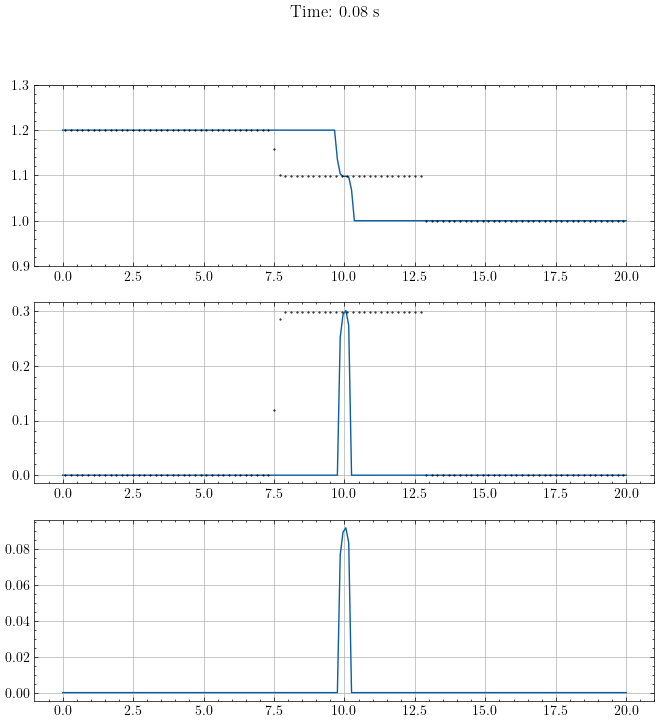
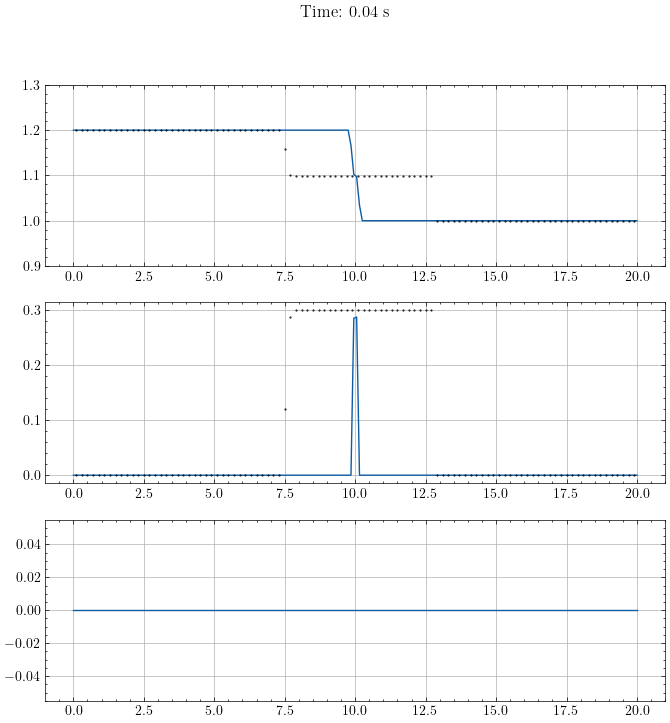
Fluxes formulation added
Flux scheme using up & down vectors: still not working (not stable). TODO: fix fluxes, fix entropy

diff --git a/lib/canal.py b/lib/canal.py
@@ -123,6 +123,7 @@ class Canal:
                 self.w[:int(position/self.dx)] = left_w
                 self.w[int(position/self.dx):] = right_w
                 self.hu = self.h*self.u
+                self.hw = self.h*self.w
                 
                 if exact:
                     with open('config/exact_dmb.txt','r') as f:
@@ -182,12 +183,6 @@ class Canal:
             self.l1[i] = self.u[i] - np.sqrt(self.gravity*self.h[i])
             self.l2[i] = self.u[i] + np.sqrt(self.gravity*self.h[i])
             
-    def calc_eigenvectors(self):
-        self.eig_vec1 = np.zeros((self.n,2))
-        self.eig_vec2 = np.zeros((self.n,2))
-        for i in range(self.n):
-            self.eig_vec1[i] = [1,self.lambda1[i]]
-            self.eig_vec2[i] = [1,self.lambda2[i]]
             
     def clac_alphas(self):
         self.alpha1 = np.zeros(self.n)
@@ -261,7 +256,7 @@ class Canal:
     
     # Friction fix
     def friction_fix(self):
-        beta_z = -0.5*self.gravity*self.h_wall*(np.roll(self.z,1)-self.z)
+        beta_z = -0.5*self.gravity*self.h_wall*(np.roll(self.z,-1)-self.z)
  
     def calc_dt(self):
         aux = np.concatenate((self.lambda1,self.lambda2))
@@ -278,9 +273,14 @@ class Canal:
     # update the hydrodynamic variables for the hydrostatic part    
     def update_hydro_contrib(self):
         
+        hu_flux = self.hu + self.lambda1_minus*self.gamma1*self.lambda1 + self.lambda2_minus*self.gamma2*self.lambda2
+        huw_flux = np.where(hu_flux>0, hu_flux*self.w, hu_flux*np.roll(self.w,-1))
+        
+        
         for i in range(1,self.n):
             h_contrib = 0
             hu_contrib = 0
+            hw_contrib = 0
             if self.check_fix: # we use all the variables calculated in the entropy fix
                 if self.lambda1_bar[i] > 0:
                     h_contrib += self.lambda1_bar[i-1]*self.gamma1[i-1]
@@ -294,18 +294,18 @@ class Canal:
                 if self.lambda2_bar[i] < 0:
                     h_contrib += self.lambda2_bar[i]*self.gamma2[i]
                     hu_contrib += self.lambda2_bar[i]**2*self.gamma2[i]
-                if self.lambda1_hat[i] > 0:
-                    h_contrib += self.lambda1_hat[i-1]*self.alpha1[i-1] # betta hat are set to zero
-                    hu_contrib += self.lambda1_hat[i-1]**2*self.alpha1[i-1]
-                if self.lambda1_hat[i] < 0:
-                    h_contrib += self.lambda1_hat[i]*self.alpha1[i]
-                    hu_contrib += self.lambda1_hat[i]**2*self.alpha1[i]
-                if self.lambda2_hat[i] > 0:
-                    h_contrib += self.lambda2_hat[i-1]*self.alpha2[i-1]
-                    hu_contrib += self.lambda2_hat[i-1]**2*self.alpha2[i-1]
-                if self.lambda2_hat[i] < 0:
-                    h_contrib += self.lambda2_hat[i]*self.alpha2[i]
-                    hu_contrib += self.lambda2_hat[i]**2*self.alpha2[i]                    
+                # if self.lambda1_hat[i] > 0:
+                #     h_contrib += self.lambda1_hat[i-1]*self.alpha1[i-1] # betta hat are set to zero
+                #     hu_contrib += self.lambda1_hat[i-1]**2*self.alpha1[i-1]
+                # if self.lambda1_hat[i] < 0:
+                #     h_contrib += self.lambda1_hat[i]*self.alpha1[i]
+                #     hu_contrib += self.lambda1_hat[i]**2*self.alpha1[i]
+                # if self.lambda2_hat[i] > 0:
+                #     h_contrib += self.lambda2_hat[i-1]*self.alpha2[i-1]
+                #     hu_contrib += self.lambda2_hat[i-1]**2*self.alpha2[i-1]
+                # if self.lambda2_hat[i] < 0:
+                #     h_contrib += self.lambda2_hat[i]*self.alpha2[i]
+                #     hu_contrib += self.lambda2_hat[i]**2*self.alpha2[i]                    
             else:
                 if self.lambda1[i-1] > 0:
                     h_contrib += self.lambda1[i-1]*self.gamma1[i-1] #update first component of the conservative vector
@@ -322,6 +322,10 @@ class Canal:
                            
             self.h[i] = self.h[i] - self.dt/self.dx*(h_contrib)
             self.hu[i] = self.hu[i] - self.dt/self.dx*(hu_contrib)
+        
+        # update hw
+        self.hw -= self.dt/self.dx*(np.roll(huw_flux,1) - huw_flux)
+        
         # contorn conditions
         self.h[0] = self.left_height
         self.h[-1] = self.right_height
@@ -330,63 +334,48 @@ class Canal:
                
     def update_hydro_flux(self):
         
-        # vector to store the fluxes
-        h_flux = np.zeros(self.n)
-        u_flux = np.zeros(self.n)
+        # # vector to store the fluxes
+        # h_flux = self.h.copy()
+        # hu_flux = self.hu.copy()
+        
+        # h_flux += self.lambda1_minus*self.gamma1*self.lambda1
+        # h_flux += self.lambda2_minus*self.gamma2*self.lambda2
+        
+        # hu_flux += self.lambda1_minus*self.gamma1*self.lambda1**2
+        # hu_flux += self.lambda2_minus*self.gamma2*self.lambda2**2
+        
+        h_flux_up = np.roll(self.hu,-1)
+        h_flux_dw = self.hu
+        hu_flux_up = np.roll(self.hu**2/self.h+0.5*self.gravity*self.h**2,-1)
+        hu_flux_dw = self.hu**2/self.h+0.5*self.gravity*self.h**2
         
         for i in range(1,self.n):
-            h_flux = 0
-            u_flux = 0
-            if self.check_fix: # we use all the variables calculated in the entropy fix
-                if self.lambda1_bar[i] > 0:
-                    h_flux += self.lambda1_bar[i-1]*self.gamma1[i-1]
-                    u_flux += self.lambda1_bar[i-1]**2*self.gamma1[i-1]
-                if self.lambda1_bar[i] < 0:
-                    h_flux += self.lambda1_bar[i]*self.gamma1[i]
-                    u_flux += self.lambda1_bar[i]**2*self.gamma1[i]
-                if self.lambda2_bar[i] > 0:
-                    h_flux += self.lambda2_bar[i-1]*self.gamma2[i-1]
-                    u_flux += self.lambda2_bar[i-1]**2*self.gamma2[i-1]
-                if self.lambda2_bar[i] < 0:
-                    h_flux += self.lambda2_bar[i]*self.gamma2[i]
-                    u_flux += self.lambda2_bar[i]**2*self.gamma2[i]
-                if self.lambda1_hat[i] > 0:
-                    h_flux += self.lambda1_hat[i-1]*self.alpha1[i-1] # betta hat are set to zero
-                    u_flux += self.lambda1_hat[i-1]**2*self.alpha1[i-1]
-                if self.lambda1_hat[i] < 0:
-                    h_flux += self.lambda1_hat[i]*self.alpha1[i]
-                    u_flux += self.lambda1_hat[i]**2*self.alpha1[i]
-                if self.lambda2_hat[i] > 0:
-                    h_flux += self.lambda2_hat[i-1]*self.alpha2[i-1]
-                    u_flux += self.lambda2_hat[i-1]**2*self.alpha2[i-1]
-                if self.lambda2_hat[i] < 0:
-                    h_flux += self.lambda2_hat[i]*self.alpha2[i]
-                    u_flux += self.lambda2_hat[i]**2*self.alpha2[i]                    
+            if self.lambda1[i] < 0:
+                h_flux_dw[i] += self.lambda1[i]*self.gamma1[i]
+                hu_flux_dw[i] += self.lambda1[i]**2*self.gamma1[i]
             else:
-                if self.lambda1[i-1] > 0:
-                    h_flux += self.lambda1[i-1]*self.gamma1[i-1] #update first component of the conservative vector
-                    u_flux += self.lambda1[i-1]**2*self.gamma1[i-1] #update second component of the conservative vector
-                if self.lambda1[i] < 0:
-                    h_flux += self.lambda1[i]*self.gamma1[i]
-                    u_flux += self.lambda1[i]**2*self.gamma1[i]
-                if self.lambda2[i-1] > 0:
-                    h_flux += self.lambda2[i-1]*self.gamma2[i-1]
-                    u_flux += self.lambda2[i-1]**2*self.gamma2[i-1]
-                if self.lambda2[i] < 0:
-                    h_flux += self.lambda2[i]*self.gamma2[i]
-                    u_flux += self.lambda2[i]**2*self.gamma2[i]
-                           
-            self.h[i] = self.h[i] - self.dt/self.dx*(h_flux)
-            self.u[i] = self.u[i] - self.dt/self.dx*(u_flux)
+                h_flux_up[i] -= self.lambda1[i]*self.gamma1[i]
+                hu_flux_up[i] -= self.lambda1[i]**2*self.gamma1[i]
+            if self.lambda2[i] < 0:
+                h_flux_dw[i] += self.lambda2[i]*self.gamma2[i]
+                hu_flux_dw[i] += self.lambda2[i]**2*self.gamma2[i]
+            else:
+                h_flux_up[i] -= self.lambda2[i]*self.gamma2[i]
+                hu_flux_up[i] -= self.lambda2[i]**2*self.gamma2[i]
+
+        self.h -= self.dt/self.dx*(h_flux_dw-np.roll(h_flux_up,1))
+        self.hu -= self.dt/self.dx*(hu_flux_dw-np.roll(hu_flux_up,1))                
+        # self.h -= self.dt/self.dx*(np.roll(h_flux,1)-h_flux)
+        # self.hu -= self.dt/self.dx*(np.roll(hu_flux,1)-hu_flux)
         # contorn conditions
         self.h[0] = self.left_height
         self.h[-1] = self.right_height
-        self.u[0] = self.left_u
-        self.u[-1] = self.right_u
+        self.hu[0] = self.left_u
+        self.hu[-1] = self.right_u
                
-    
     # Calculate variable vectors
     def debug_calc_vectors(self):
+        self.u = self.hu/self.h
         t0 = time.time()
         self.calc_hidraulic_radius()
         t1 = time.time()
@@ -411,14 +400,25 @@ class Canal:
         
         if self.activate_entropy_fix:
             a = self.check_entropy()
-            # if a: logger.info(f"Entropy fix activated")
-            self.entropy_fix()
-            t7 = time.time()
+            if a: 
+                logger.info(f"Entropy fix activated")
+                self.entropy_fix()
+        t7 = time.time()
+                # add time usage in % of total time
+        total_time = t7-t0
+        if self.check_fix: logger.debug(f"Total time: {total_time:.2f}\n\
+            R:{(t1-t0)/total_time:.2f}; ({t1-t0})\n\
+            S:{(t2-t1)/total_time:.2f}; ({t2-t1})\n\
+            walls:{(t4-t2)/total_time:.2f}; ({t4-t2})\n\
+            lambda:{(t5-t4)/total_time:.2f}; ({t5-t4})\n\
+            eigenvectors:{(t6-t5)/total_time:.2f}; ({t6-t5})\n\
+            entropy fix:{(t7-t6)/total_time:.2f}; ({t7-t6})\n") 
 
   # Calculate variable vectors
     def calc_vectors(self):
         
         self.u = self.hu/self.h
+        self.w = self.hw/self.h
         self.calc_hidraulic_radius()
       
         self.calc_S_manning()
@@ -433,7 +433,9 @@ class Canal:
         self.calc_betas()
         self.calc_gammas()
         
-        self.calc_eigenvectors()
+        
+        self.lambda1_minus = np.where(self.lambda1 < 0, self.lambda1, 0)
+        self.lambda2_minus = np.where(self.lambda2 < 0, self.lambda2, 0)
         
         if self.activate_entropy_fix:
             a = self.check_entropy()
@@ -442,15 +444,20 @@ class Canal:
 
 
     ##### Temporal loop #####
-    def temporal_loop(self):
+    def temporal_loop(self, mode = 'flux'):
+        self.t_int = 1
         while self.real_time < self.end_time:
             self.calc_vectors()
             self.calc_dt()
-            self.update_hydro_contrib()
+            match mode:
+                case 'flux':
+                    self.update_hydro_flux()
+                case 'cont':
+                    self.update_hydro_contrib()
             self.real_time += self.dt
             if abs(self.real_time - self.out_counter + self.out_freq) < 1e-6:
                 self.plot_results()
-                time.sleep(0.01)
+                # time.sleep(0.01)
             self.t_int += 1
             if self.t_int % 100 == 0:
                 if self.check_fix: logger.info(f"Time: {self.real_time:.2f} s")
@@ -466,7 +473,7 @@ class Canal:
         self.ax[0].set_ylim(min(self.left_height,self.right_height)-0.1,max(self.left_height,self.right_height)+0.1)
         self.ax[1].plot(x,self.u,label='u')
         Fr = self.u/np.sqrt(self.gravity*self.h)
-        self.ax[2].plot(x,Fr,label='w')
+        self.ax[2].plot(x,self.w,label='w')
         
         # Exact solution if available
         if self.exact:
@@ -478,9 +485,49 @@ class Canal:
         self.fig.canvas.flush_events()
         self.fig.savefig(f"img/state_{self.t_int}.png")
 
+    ### elliptic non-hydrostatic model ###
+    def Tridiagonal(self):
+    
+        self.A_sub_diag = np.zeros(self.n)
+        self.B_diag = np.zeros(self.n)
+        self.C_sup_diag = np.zeros(self.n)
+        self.D = np.zeros(self.n) #termino independiente
         
+        # Auxiliar variables
+        phi = 0.5*(np.roll(self.h,-1)+2*np.roll(self.z,-1)-np.roll(self.h,-1)-2*np.roll(self.z,-1)) # mean phi of two walls [i+1]-[i-1]
+        phi_edge = (self.h+2*self.z-np.roll(self.h,1)-2*np.roll(self.z,1)) # mean phi of two cells [i]-[i-1]
+        h_edge = 0.5*(self.h+np.roll(self.h,1)) # mean h of two cells [i]-[i-1]
+        q_edge = 0.5*(self.hu+np.roll(self.hu,1)) # mean q of two cells [i]-[i-1]
+        
+        # Calculate the coefficients of the tridiagonal matrix
+        self.A_sub_diag = (np.roll(phi,1)-2*np.roll(self.h,1))*(phi_edge + 2*h_edge)
+        self.B_diag = 16*self.dx**2 + phi_edge*(np.roll(phi,1)+phi+2*np.roll(self.h,1)-2*self.h) + 2*h_edge*(np.roll(phi,1)-phi+4*h_edge)
+        self.C_sup_diag = (phi+2*self.h)*(phi_edge - 2*h_edge)
+        self.D =-(4*self.dx/self.dt*(self.h*(self.hu-np.roll(self.hu,1))-q_edge*phi_edge+2*self.dx*h_edge*self.w))
+            
+        self.A_sub_diag[0] = self.A_sub_diag[1] ############################################################################CONTOUR
+        self.B_diag[0] = self.B_diag[1]
+        self.C_sup_diag[0] = self.C_sup_diag[1]
+        self.D[0] = self.D[1]
+            
 
+    def TDMA(a,b,c,d):
+        n = len(d)
+        w= np.zeros(n-1,float)
+        g= np.zeros(n, float)
+        p = np.zeros(n,float)
+        
+        w[0] = c[0]/b[0]
+        g[0] = d[0]/b[0]
 
+        for i in range(1,n-1):
+            w[i] = c[i]/(b[i] - a[i]*w[i-1])
+        for i in range(1,n):
+            g[i] = (d[i] - a[i-1]*g[i-1])/(b[i] - a[i-1]*w[i-1])
+        p[n-1] = g[n-1]
+        for i in range(n-1,0,-1):
+            p[i-1] = g[i-1] - w[i-1]*p[i]
+        return p
 
 
 

diff --git a/main.py b/main.py
@@ -1,4 +1,4 @@
-from bib.canal import *
+from lib.canal import *
 import os
 
 if __name__ == '__main__':
@@ -9,7 +9,7 @@ if __name__ == '__main__':
     river = Canal()
 
     river.calc_vectors()
-    river.temporal_loop()
+    river.temporal_loop(mode='cont') # Can be 'flux' or 'cont' for fluxes or contributions scheme 
     
     # river.prog_bar.next()
     river.prog_bar.finish()
